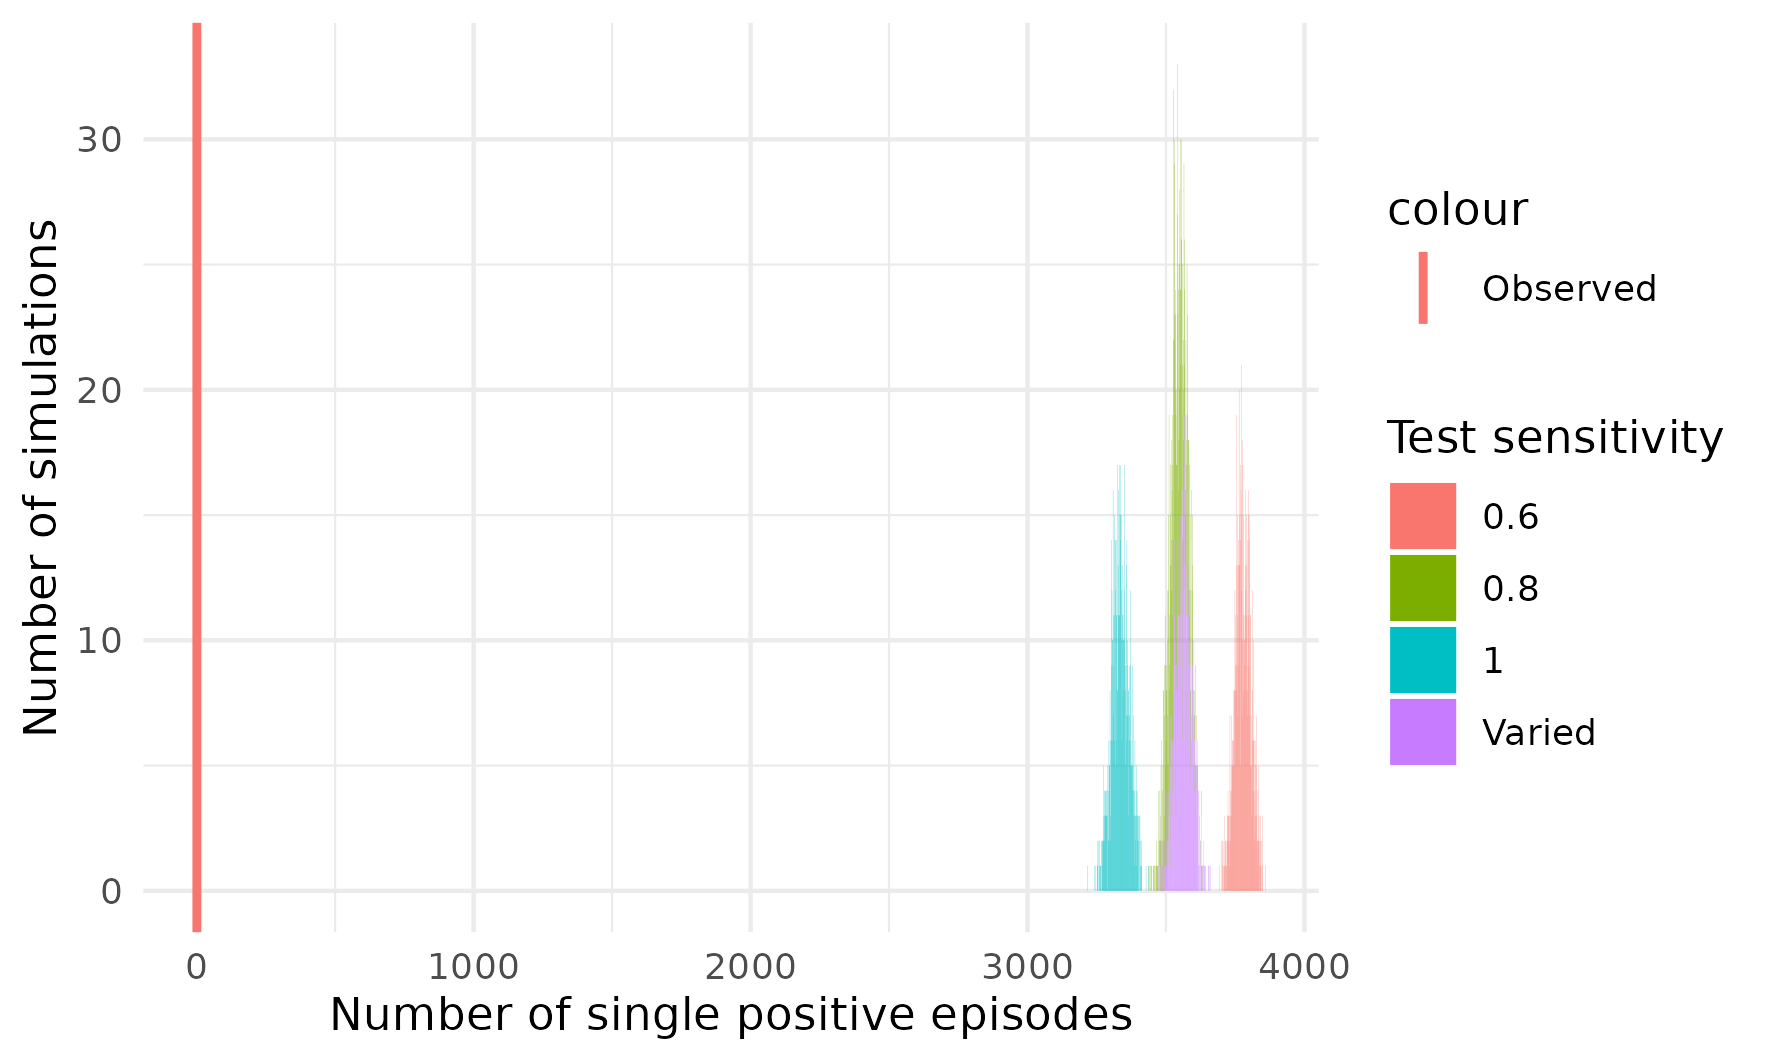
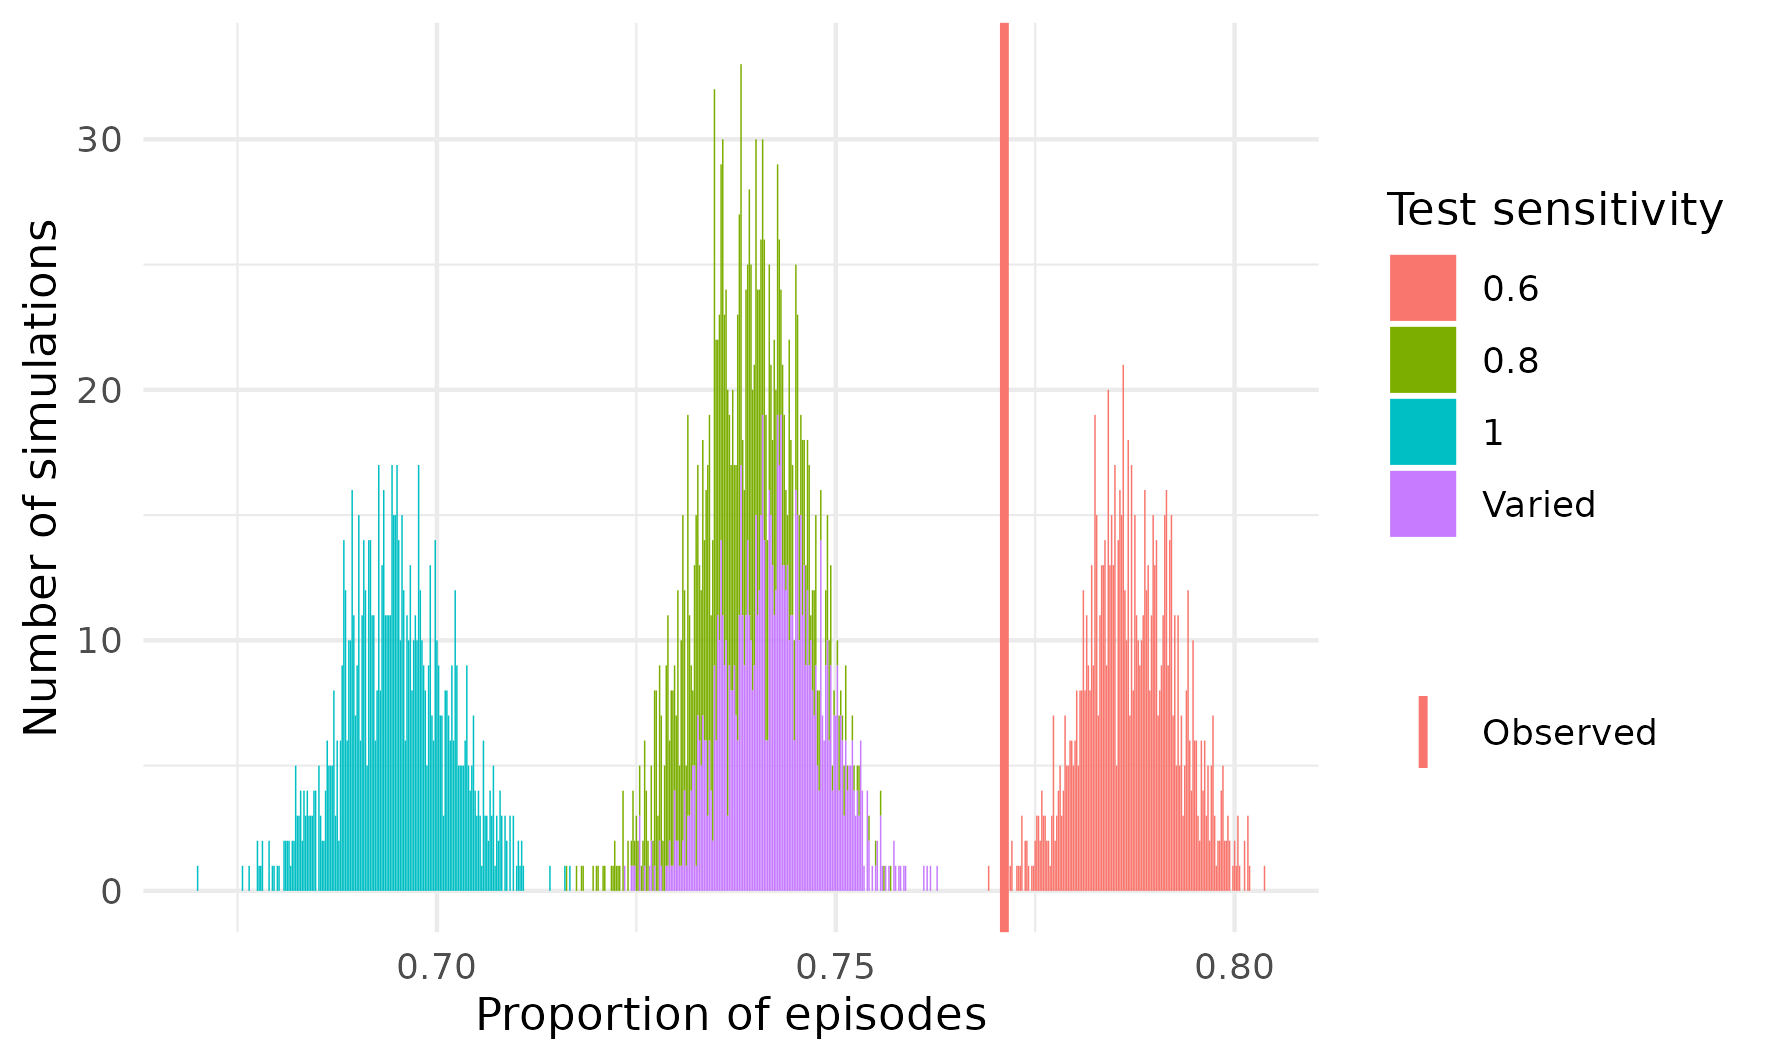
Improve and describe figure

diff --git a/cis-imperfect-testing.tex b/cis-imperfect-testing.tex
@@ -46,8 +46,12 @@ Intermittent negatives (described in  \cref{E-biology-data:sec:PCR}) show that t
 Second, adjusting the simulation to include false negatives can reproduce both the CIS data more faithfully and exhibits the same issues when estimating the duration distribution (shown in \cref{imperf-test:fig:sim-single-pos} with method explained in \cref{imperf-test:sec:simulate}).
 \begin{figure}
   \centering \includegraphics{cis-imperfect-testing/sim-single-positive-episodes}
-  \todo[inline]{Figure showing estimates without false negatives}
-  \caption[Estimating survival using CIS data assuming perfect testing]{Estimating the survival function using CIS data and the model of \cref{E-perf-test} gives implausibly short estimates.}
+  \caption[Single positive episodes in CIS simulation]{%
+    Proportion of detected episodes which have a single positive episode.
+    y-axis is the number of simulations, out of 1000, with the indicated proportion.
+    The CIS data is shown as a vertical line.
+    Simulation methodology is explained in \cref{E-perf-test:sec:simulation-study}, with false negatives included as described in \cref{imperf-test:sec:simulate}.
+  }
   \label{imperf-test:fig:sim-single-pos}
 \end{figure}
 
